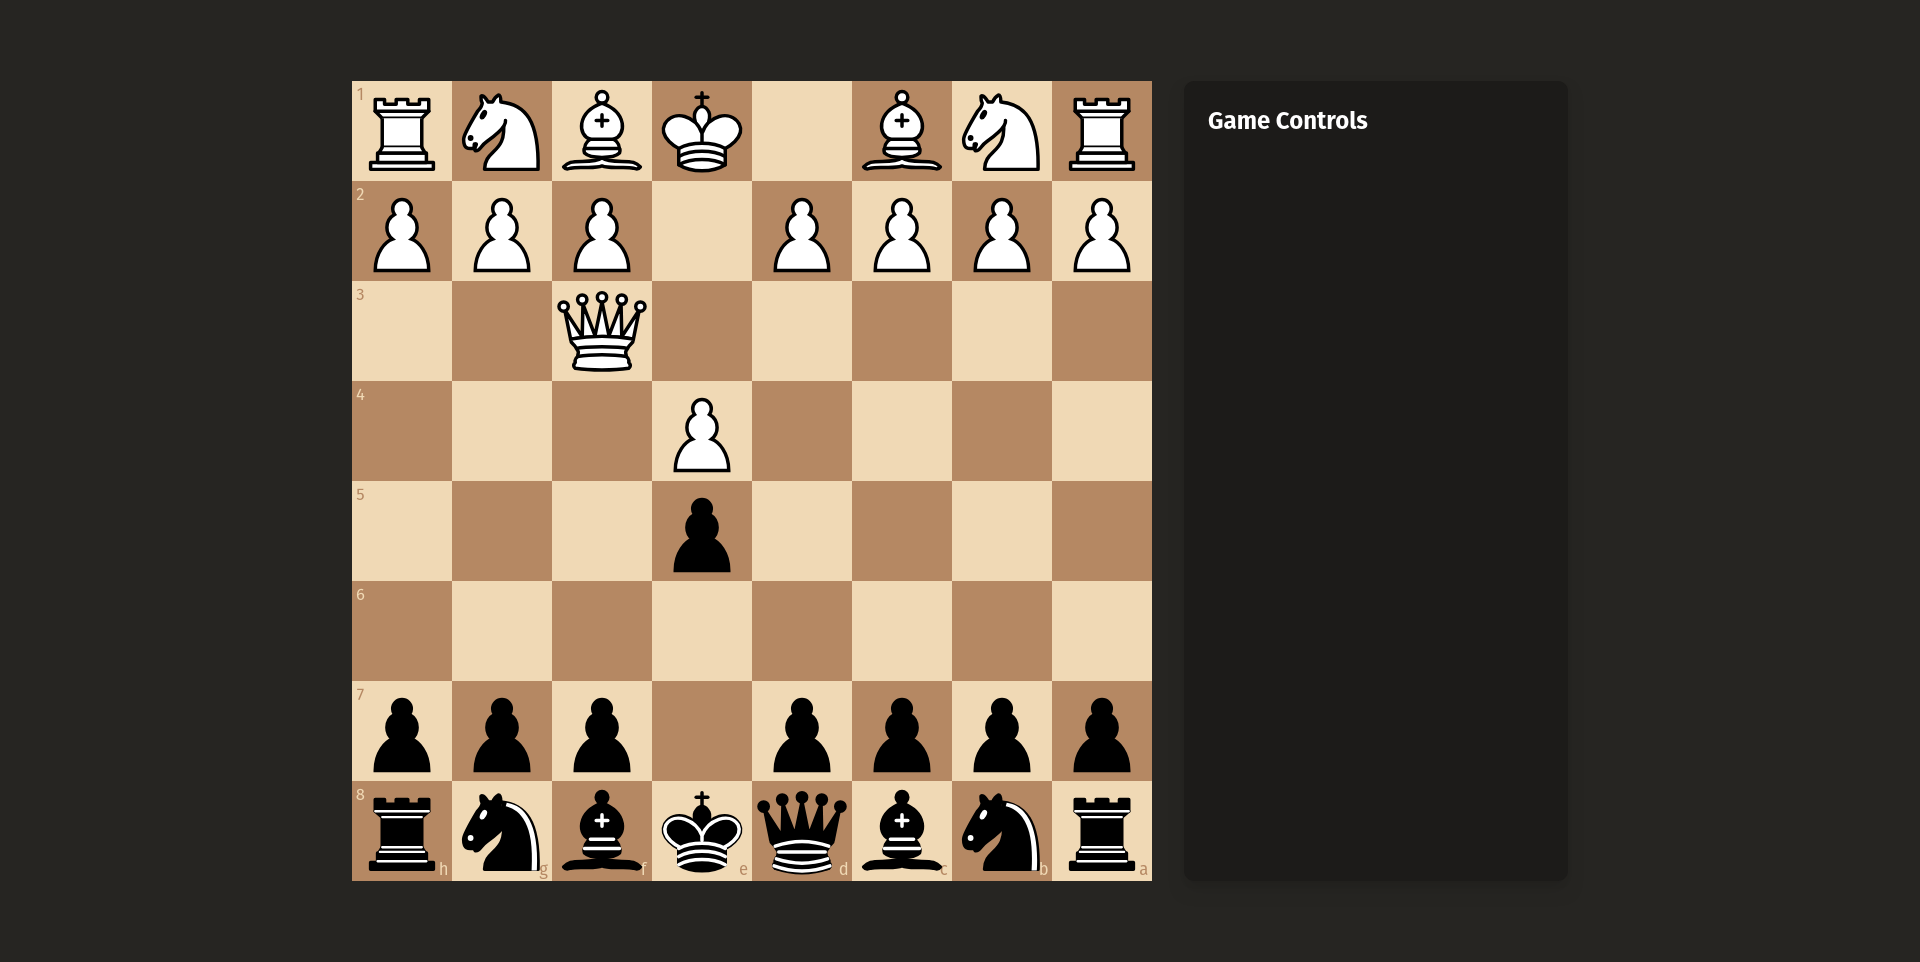
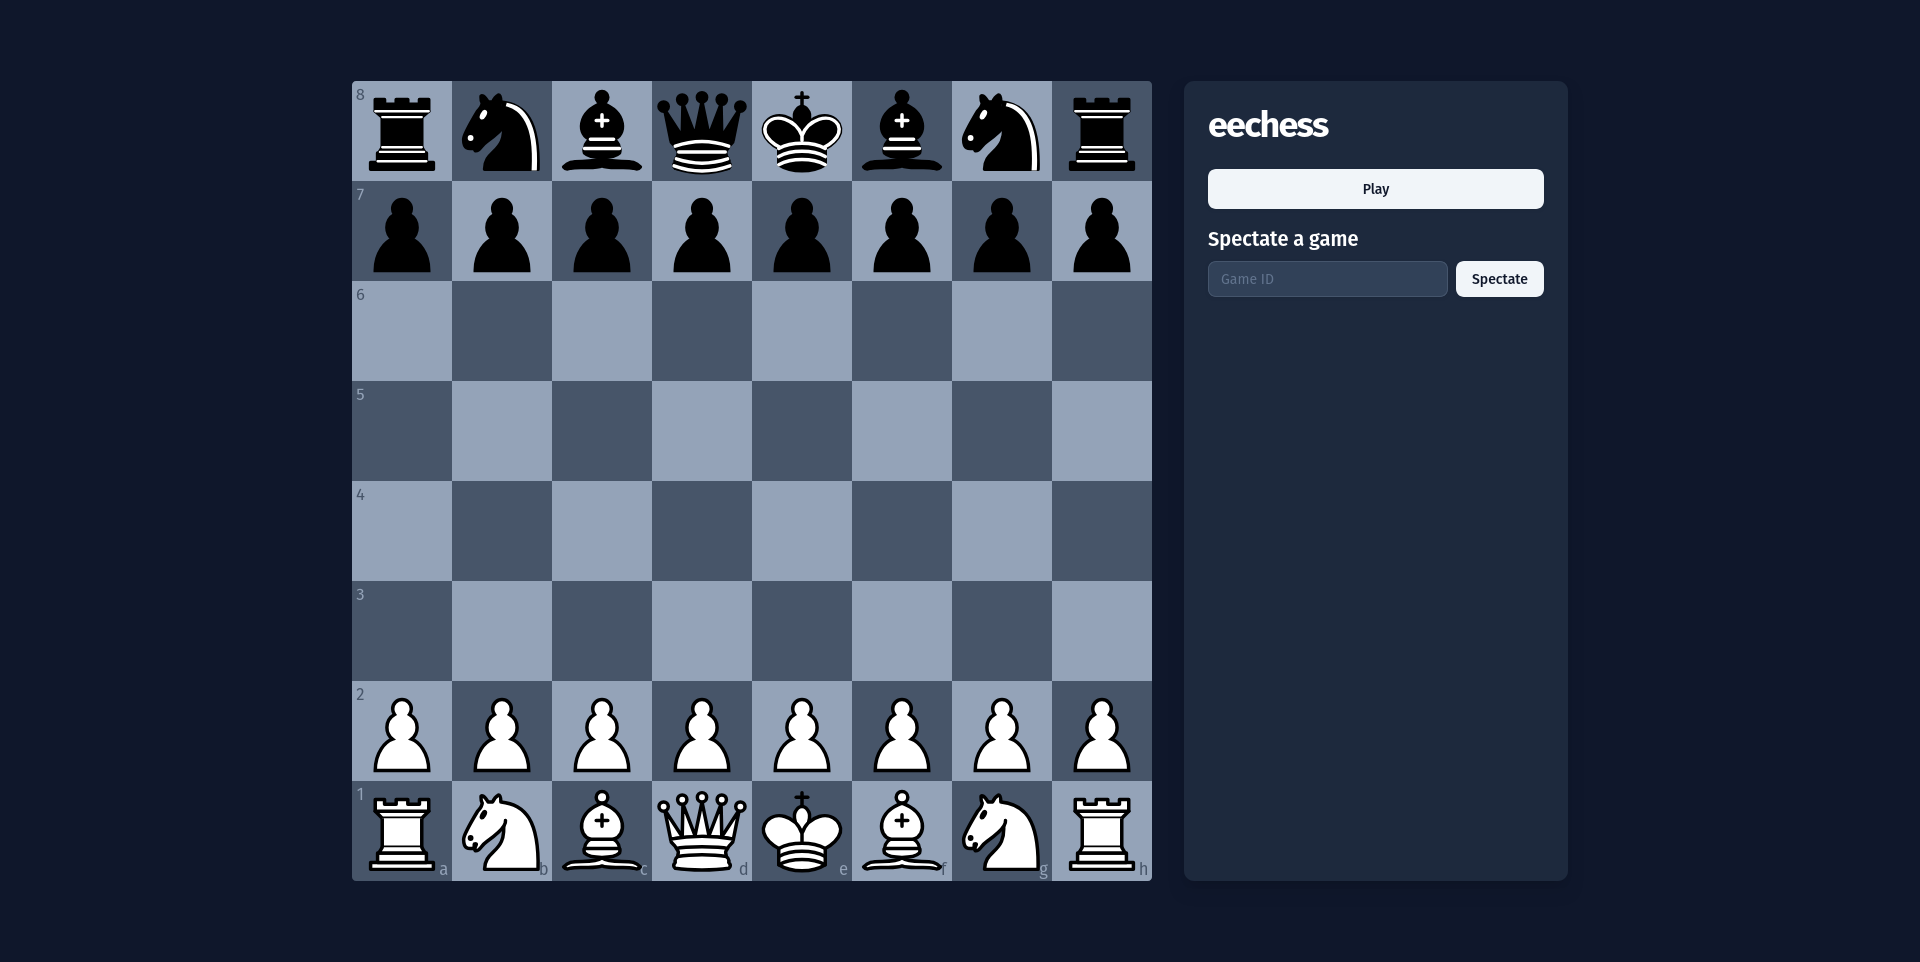
updated roadmap

diff --git a/README.md b/README.md
@@ -15,6 +15,7 @@ EeChess is a next-generation online chess application that enables players to co
 - **Type Safety**: Full TypeScript implementation for better development experience
 - **Chess Engine**: Powered by chess.js for accurate game logic and move validation
 - **Cross-platform**: Works on desktop and mobile devices
+- **Spectator Mode**: Allow users to watch ongoing games
 
 ![EeChess Game Interface](images/game.png)
 
@@ -122,10 +123,26 @@ eechess/
 
 The application uses WebSocket messages for real-time communication:
 
-**Initialize Game:**
+**Join Game:**
+Used by a player to join a new or existing game. If `gameId` is provided, they will join as a spectator.
 ```json
 {
-  "type": "init_game"
+  "type": "joinGame",
+  "payload": {
+    "gameId": "some-game-id" 
+  }
+}
+```
+
+**Initialize Game:**
+Sent to a player when they start a new game, assigning them a color.
+```json
+{
+  "type": "initGame",
+  "payload": {
+    "color": "white",
+    "gameId": "some-game-id"
+  }
 }
 ```
 
@@ -133,9 +150,11 @@ The application uses WebSocket messages for real-time communication:
 ```json
 {
   "type": "move",
-  "move": {
-    "from": "e2",
-    "to": "e4"
+  "payload": {
+    "move": {
+      "from": "e2",
+      "to": "e4"
+    }
   }
 }
 ```
@@ -143,14 +162,31 @@ The application uses WebSocket messages for real-time communication:
 **Game Over:**
 ```json
 {
-  "type": "game_over"
+  "type": "gameOver",
+  "payload": {
+    "winner": "white"
+  }
+}
+```
+
+**Game State:**
+Sent to spectators to provide the current state of the game.
+```json
+{
+  "type": "gameState",
+  "payload": {
+    "moves": [],
+    "turn": "w",
+    "fen": "rnbqkbnr/pppppppp/8/8/8/8/PPPPPPPP/RNBQKBNR w KQkq - 0 1",
+    "gameId": "some-game-id"
+  }
 }
 ```
 
 ## 🚧 Roadmap
 
 - [ ] **Chess Clock** - Add time controls for games
-- [ ] **Spectators** - Allow users to watch ongoing games
+- [x] **Spectators** - Allow users to watch ongoing games
 - [x] **State Management** - Implement proper game state management
 - [ ] **Authentication** - User accounts and persistent sessions
 - [ ] **Reconnection** - Handle connection drops gracefully
